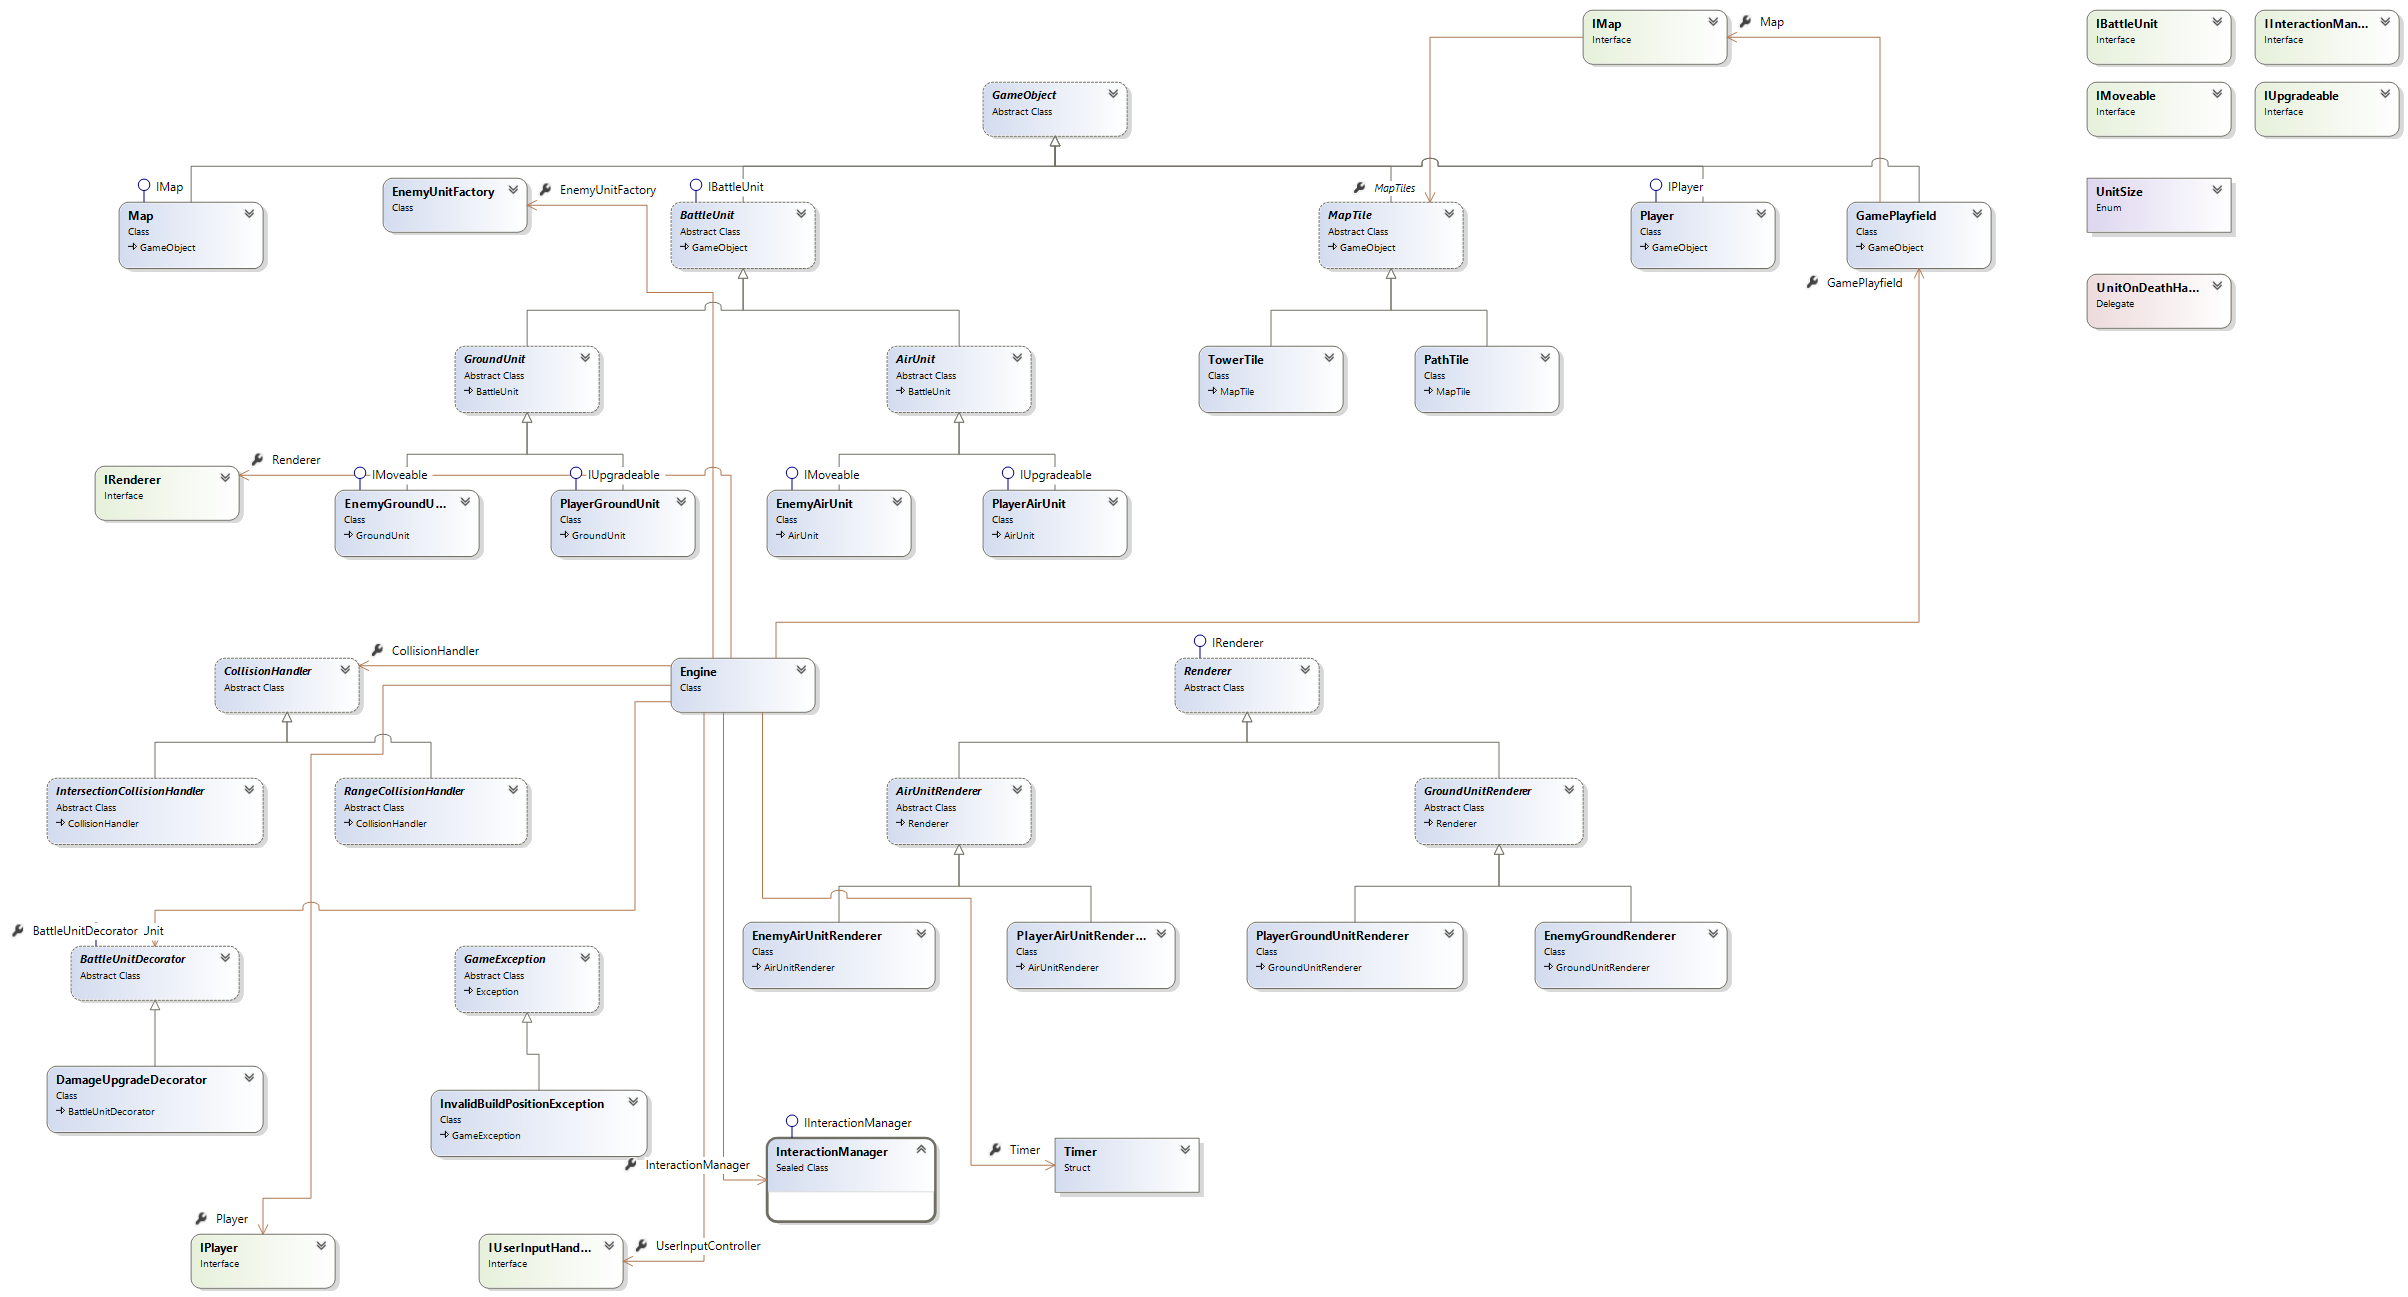
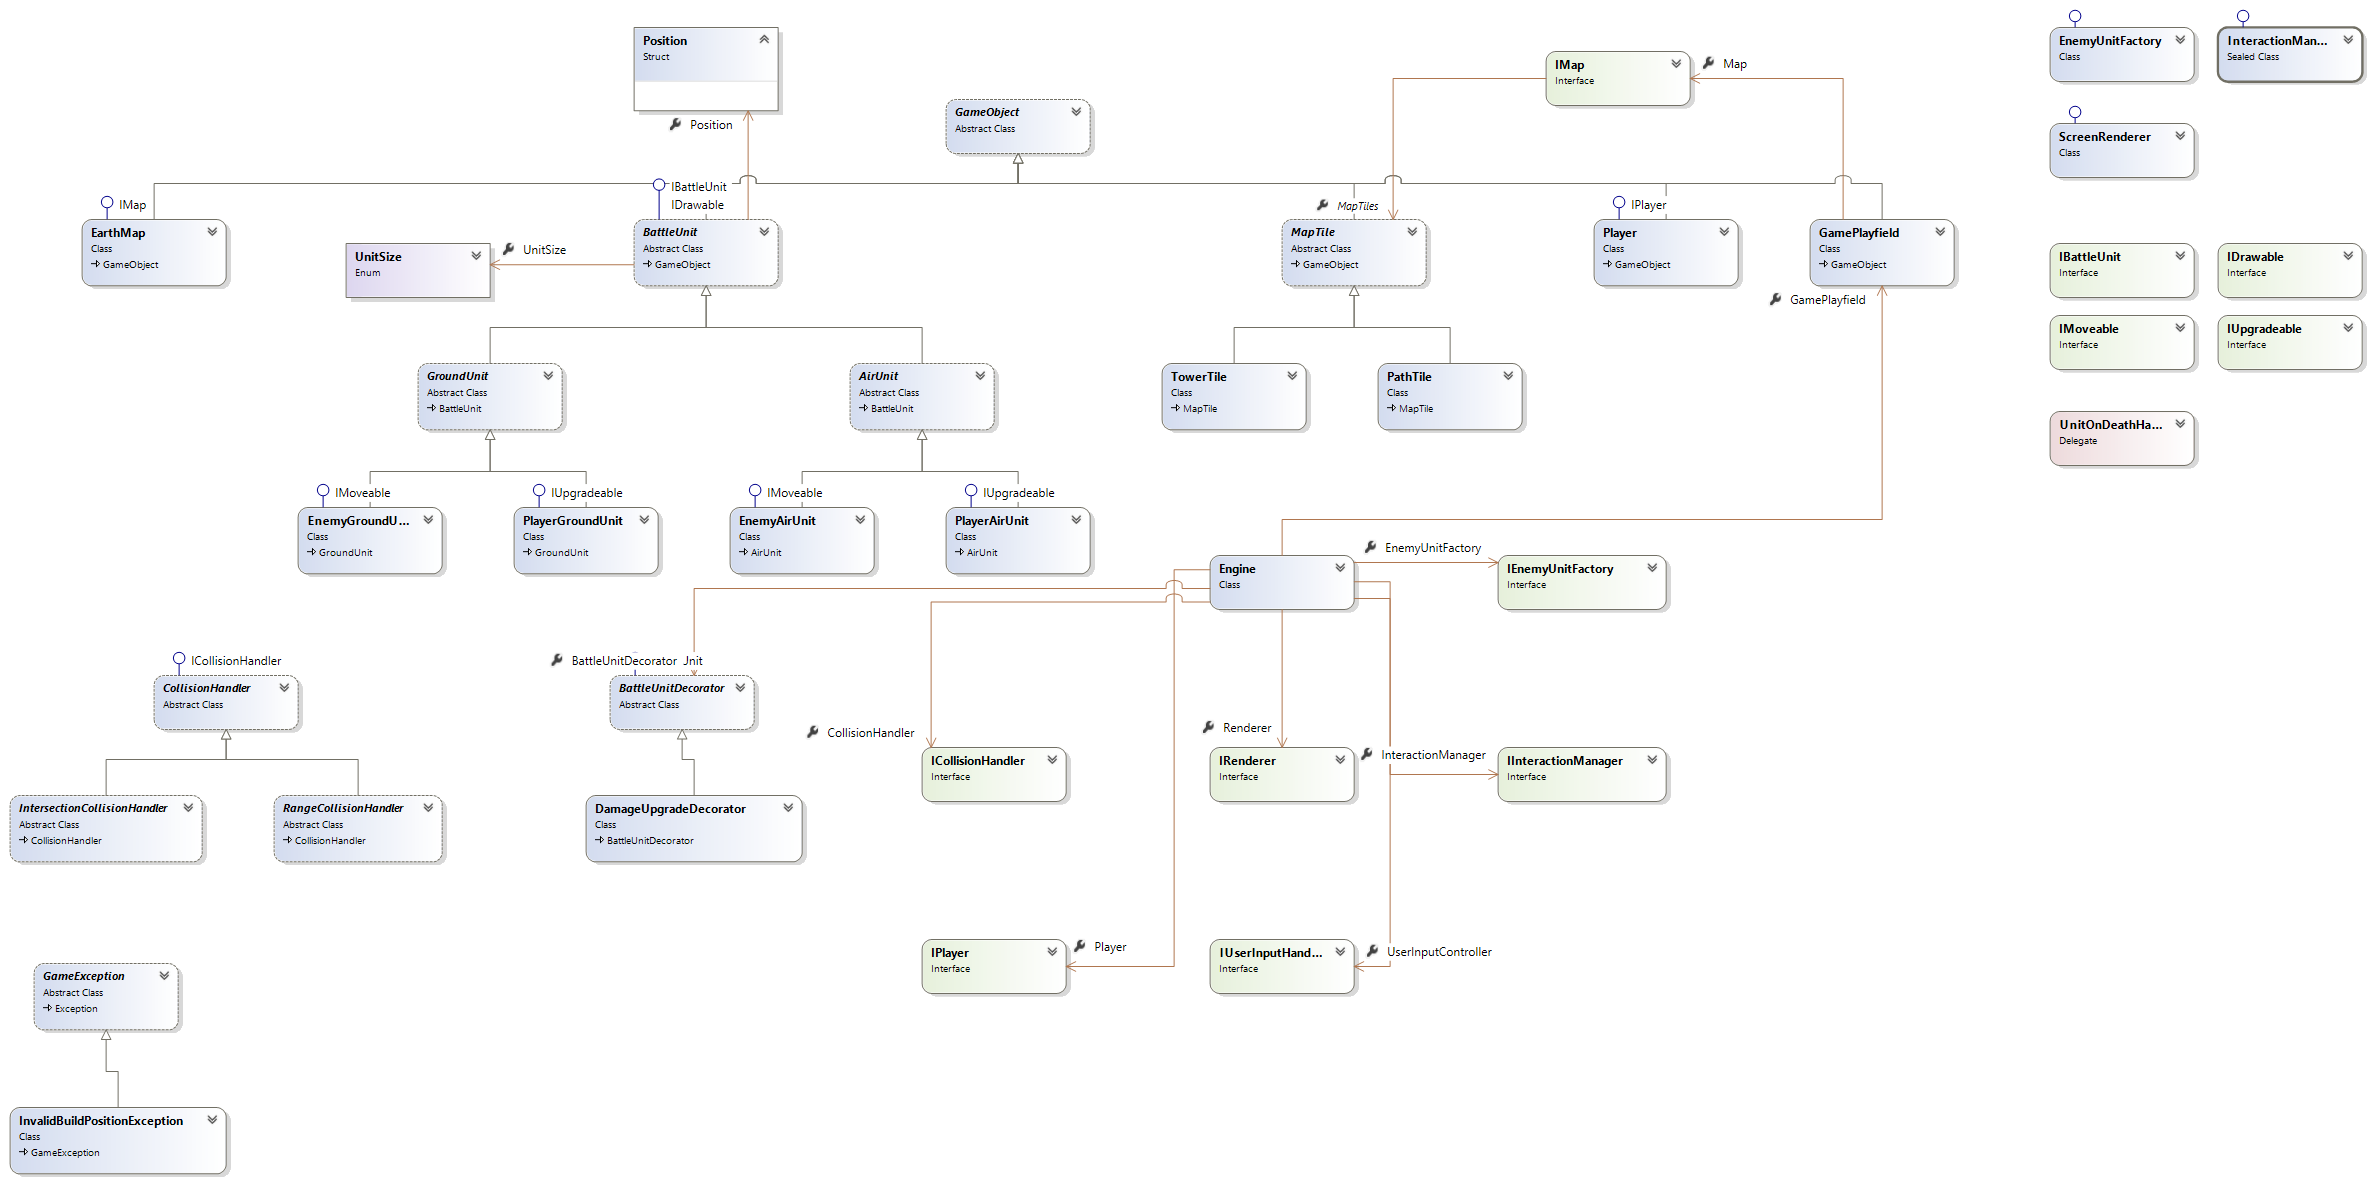
project architecture done!!!

diff --git a/TowerDeffence/Engine/Engine.cs b/TowerDeffence/Engine/Engine.cs
@@ -3,6 +3,7 @@
     using Helpers;
     using GameObjects;
     using Interfaces;
+    using Graphics;
 
     public class Engine
     {
@@ -16,6 +17,7 @@
             }
             set
             {
+                
             }
         }
 
@@ -30,51 +32,7 @@
             }
         }
 
-        public IRenderer Renderer
-        {
-            get
-            {
-                throw new System.NotImplementedException();
-            }
-            set
-            {
-            }
-        }
-
-        public Timer Timer
-        {
-            get
-            {
-                throw new System.NotImplementedException();
-            }
-            set
-            {
-            }
-        }
-
-        public EnemyUnitFactory EnemyUnitFactory
-        {
-            get
-            {
-                throw new System.NotImplementedException();
-            }
-            set
-            {
-            }
-        }
-
         public GamePlayfield GamePlayfield
-        {
-            get
-            {
-                throw new System.NotImplementedException();
-            }
-            set
-            {
-            }
-        }
-
-        public CollisionHandler CollisionHandler
         {
             get
             {
@@ -97,6 +55,39 @@
         }
 
         public IInteractionManager InteractionManager
+        {
+            get
+            {
+                throw new System.NotImplementedException();
+            }
+            set
+            {
+            }
+        }
+
+        public TowerDeffence.Interfaces.ICollisionHandler CollisionHandler
+        {
+            get
+            {
+                throw new System.NotImplementedException();
+            }
+            set
+            {
+            }
+        }
+
+        public TowerDeffence.Interfaces.IEnemyUnitFactory EnemyUnitFactory
+        {
+            get
+            {
+                throw new System.NotImplementedException();
+            }
+            set
+            {
+            }
+        }
+
+        public TowerDeffence.Interfaces.IRenderer Renderer
         {
             get
             {

diff --git a/TowerDeffence/GameObjects/BattleUnit.cs b/TowerDeffence/GameObjects/BattleUnit.cs
@@ -3,8 +3,30 @@
     using Interfaces;
     using Helpers;
 
-    public abstract class BattleUnit : GameObject, IBattleUnit
+    public abstract class BattleUnit : GameObject, IBattleUnit, IDrawable
     {
         public event UnitOnDeathHandler OnDeath;
+
+        public Position Position
+        {
+            get
+            {
+                throw new System.NotImplementedException();
+            }
+            set
+            {
+            }
+        }
+
+        public UnitSize UnitSize
+        {
+            get
+            {
+                throw new System.NotImplementedException();
+            }
+            set
+            {
+            }
+        }
     }
 }

diff --git a/TowerDeffence/Helpers/EnemyUnitFactory.cs b/TowerDeffence/Helpers/EnemyUnitFactory.cs
@@ -1,6 +1,24 @@
 namespace TowerDeffence.Helpers
 {
-    public class EnemyUnitFactory
+    using System.Collections.Generic;
+
+    using Interfaces;
+    using GameObjects;
+
+    public class EnemyUnitFactory : IEnemyUnitFactory
     {
+        public EnemyAirUnit CreateEnemyAirUnit(/* params */)
+        {
+            return new EnemyAirUnit(/* params */);
+        }
+
+        public ICollection<EnemyAirUnit> CreateEnemyAirUnitByCount(int count)
+        {
+            for (int i = 0; i < count; i++)
+            {
+                
+            }
+            return null;
+        }
     }
 }

diff --git a/TowerDeffence/Graphics/ScreenRenderer.cs b/TowerDeffence/Graphics/ScreenRenderer.cs
@@ -1,0 +1,25 @@
+namespace TowerDeffence.Graphics
+{
+    using System.Collections.Generic;
+
+    using Interfaces;
+
+    public class ScreenRenderer : IRenderer
+    {
+        public ICollection<IDrawable> Drawables
+        {
+            get
+            {
+                throw new System.NotImplementedException();
+            }
+            set
+            {
+            }
+        }
+    
+        public void Draw(ICollection<IDrawable> drawables)
+        {
+            
+        }
+    }
+}

diff --git a/TowerDeffence/Helpers/CollisionHandler.cs b/TowerDeffence/Helpers/CollisionHandler.cs
@@ -1,6 +1,8 @@
 namespace TowerDeffence.Helpers
 {
-    public abstract class CollisionHandler
+    using Interfaces;
+
+    public abstract class CollisionHandler : ICollisionHandler
     {
     }
 }

diff --git a/TowerDeffence/Graphics/GroundUnitRenderer.cs b/TowerDeffence/Graphics/GroundUnitRenderer.cs
@@ -1,6 +1,6 @@
 namespace TowerDeffence.Graphics
 {
-    public abstract class GroundUnitRenderer : Renderer
+    public abstract class GroundUnitRenderer : ScreenRenderer
     {
     }
 }

diff --git a/TowerDeffence/Graphics/AirUnitRenderer.cs b/TowerDeffence/Graphics/AirUnitRenderer.cs
@@ -1,6 +1,6 @@
 namespace TowerDeffence.Graphics
 {
-    public abstract class AirUnitRenderer : Renderer
+    public abstract class AirUnitRenderer : ScreenRenderer
     {
     }
 }

diff --git a/TowerDeffence/GameObjects/Map.cs b/TowerDeffence/GameObjects/Map.cs
@@ -2,7 +2,7 @@
 {
     using Interfaces;
 
-    public class Map : GameObject, IMap
+    public class EarthMap : GameObject, IMap
     {
         public MapTile[,] MapTiles
         {

diff --git a/TowerDeffence/Interfaces/ICollisionHandler.cs b/TowerDeffence/Interfaces/ICollisionHandler.cs
@@ -1,0 +1,6 @@
+namespace TowerDeffence.Interfaces
+{
+    public interface ICollisionHandler
+    {
+    }
+}

diff --git a/TowerDeffence/Interfaces/IEnemyUnitFactory.cs b/TowerDeffence/Interfaces/IEnemyUnitFactory.cs
@@ -1,0 +1,6 @@
+namespace TowerDeffence.Interfaces
+{
+    public interface IEnemyUnitFactory
+    {
+    }
+}

diff --git a/TowerDeffence/Interfaces/IDrawable.cs b/TowerDeffence/Interfaces/IDrawable.cs
@@ -1,0 +1,6 @@
+namespace TowerDeffence.Interfaces
+{
+    public interface IDrawable
+    {
+    }
+}

diff --git a/TowerDeffence/Helpers/Position.cs b/TowerDeffence/Helpers/Position.cs
@@ -1,0 +1,6 @@
+namespace TowerDeffence.Helpers
+{
+    public struct Position
+    {
+    }
+}
